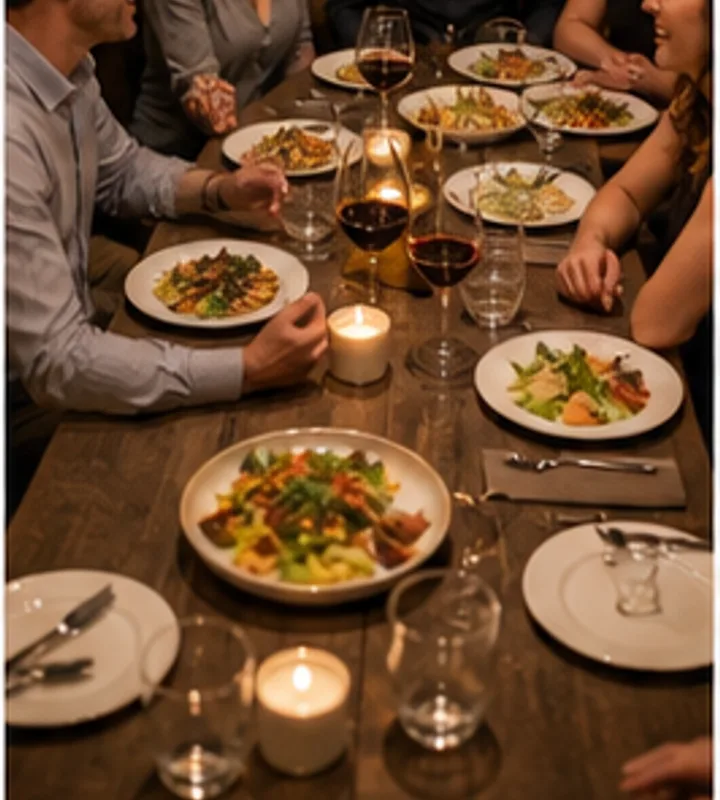
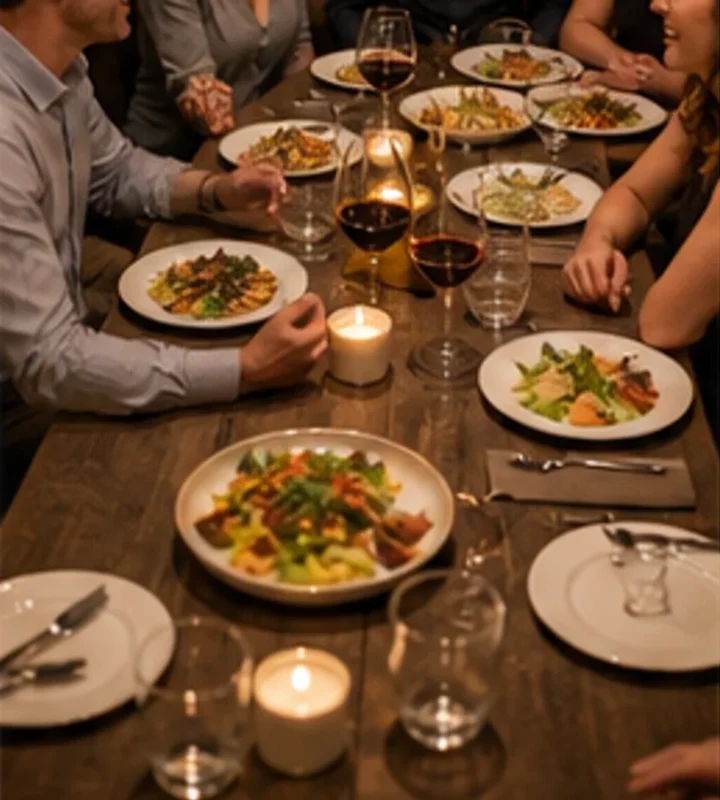
Nest Dinner for Six under Dinner Parties

diff --git a/public/site.css b/public/site.css
@@ -1658,35 +1658,18 @@ body.e4s-page-location .e4s-page-intro--editorial p,
   border-radius: 8px;
   background: rgba(255, 255, 255, 0.92);
   box-shadow: 0 6px 18px rgba(6, 78, 77, 0.05);
-}.e4s-page-category .e4s-page-hero {
-  width: 100%;
-  margin-top: 0;
-  border-right: 0;
-  border-left: 0;
-  border-radius: 0;
 }.e4s-page-category .e4s-page-hero__image {
-  min-height: 220px;
   background:
     radial-gradient(circle at 16% 24%, rgba(255, 255, 255, 0.28), transparent 20%),
     linear-gradient(135deg, rgba(6, 78, 77, 0.95), rgba(83, 149, 146, 0.86) 54%, rgba(139, 47, 67, 0.64));
 }.e4s-page-category .e4s-page-hero__image img {
-  height: 220px;
   object-fit: cover;
-  object-position: center 45%;
 }.e4s-page-category .e4s-page-intro h1 {
   position: absolute !important;
   width: 1px !important;
   height: 1px !important;
   overflow: hidden !important;
   clip: rect(0 0 0 0) !important;
-}@media (max-width: 640px) {
-  .e4s-page-category .e4s-page-hero__image {
-    min-height: 150px;
-  }
-
-  .e4s-page-category .e4s-page-hero__image img {
-    height: 150px;
-  }
 }.e4s-page-category .e4s-promo-banners {
   margin-top: 18px;
   margin-bottom: 18px;
